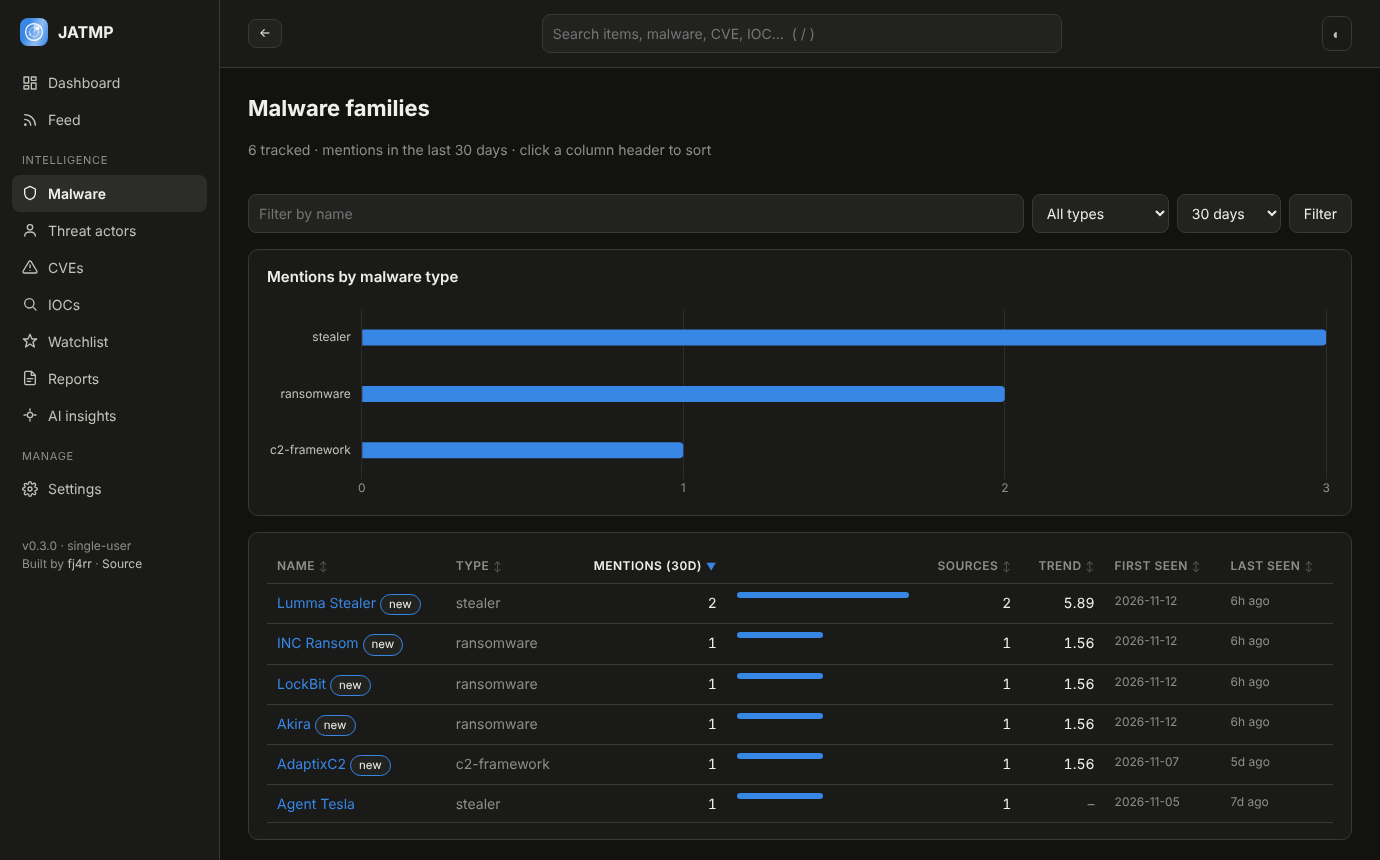
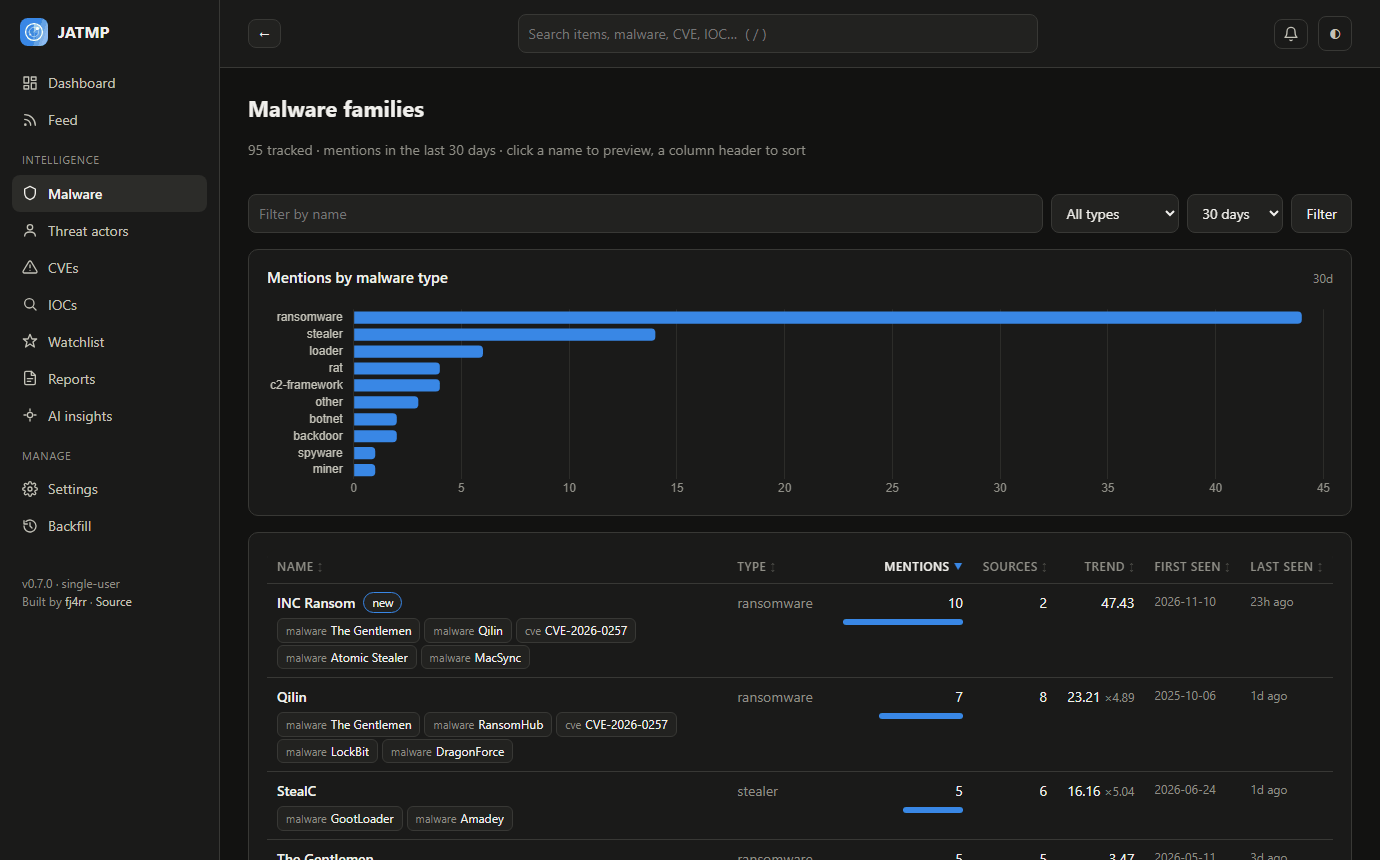
Refresh README screenshots for 0.7.0
The screenshots still showed the 0.3 interface. New set taken from a fresh install
with live collection: dashboard and its CVE / actor widgets, feed with the side
preview, item page, relationship graph, family page, IOC, malware and CVE tables,
backfill, AI settings and the report builder.

diff --git a/README.md b/README.md
@@ -16,22 +16,30 @@ from a CDN at runtime, so it works on an isolated network.
 
 ## Screenshots
 
-Dashboard: threat radar, KPI tiles (the icon opens the detail page), headline ticker, collection volume and
-trending families.
+Dashboard: *Collect now* / *Enrich now* with last and next run, notification bell, headline ticker, threat radar,
+KPI tiles with sparklines, collection volume and trending families.
 
 ![Dashboard](docs/screenshots/dashboard.png)
 
-| Malware family page: timeline, indicators, coverage per source, co-occurring CVEs and actors | Item page: severity breakdown, extracted entities and correlated items ranked by evidence |
+| Trending CVEs (CISA KEV, CVSS, EPSS, risk-weighted priority) and trending threat actors with their families | Feed with the side preview: severity breakdown, entities and indicators without leaving the list |
 |---|---|
-| ![Entity page](docs/screenshots/entity.png) | ![Item page](docs/screenshots/item.png) |
+| ![Dashboard widgets](docs/screenshots/dashboard-widgets.png) | ![Feed and side preview](docs/screenshots/feed-preview.png) |
 
-| Feed: sortable table with severity, title and entities, source type and time | IOC table with verdicts, attributed families and where each indicator was seen |
+| Item page: severity, STIX export, extracted entities with their verdicts | Relationship graph: the item, its entities and the other items that share them |
 |---|---|
-| ![Feed](docs/screenshots/feed.png) | ![IOCs](docs/screenshots/iocs.png) |
+| ![Item page](docs/screenshots/item.png) | ![Relationship graph](docs/screenshots/graph.png) |
 
-| Malware families: sortable columns, trend score, mentions by type | AI settings: local or cloud, vendor presets and a live model list |
+| Malware family page: timeline, coverage per source, Deep dive, graph, co-mentioned entities | IOC table with verdicts, attributed families and where each indicator was seen |
 |---|---|
-| ![Malware families](docs/screenshots/malware.png) | ![AI settings](docs/screenshots/settings.png) |
+| ![Entity page](docs/screenshots/entity.png) | ![IOCs](docs/screenshots/iocs.png) |
+
+| Malware families: unified table with trend score, related entities and pagination | CVE list sorted by EPSS, with KEV badges and co-mentioned families |
+|---|---|
+| ![Malware families](docs/screenshots/malware.png) | ![CVEs](docs/screenshots/cves.png) |
+
+| Historical backfill: per-source reach and method, estimates and storage statistics | AI settings: local or cloud, vendor presets and a live model list |
+|---|---|
+| ![Backfill](docs/screenshots/backfill.png) | ![AI settings](docs/screenshots/settings.png) |
 
 | Report builder: period, content and format for the *Threat Intel Findings* document |
 |---|
